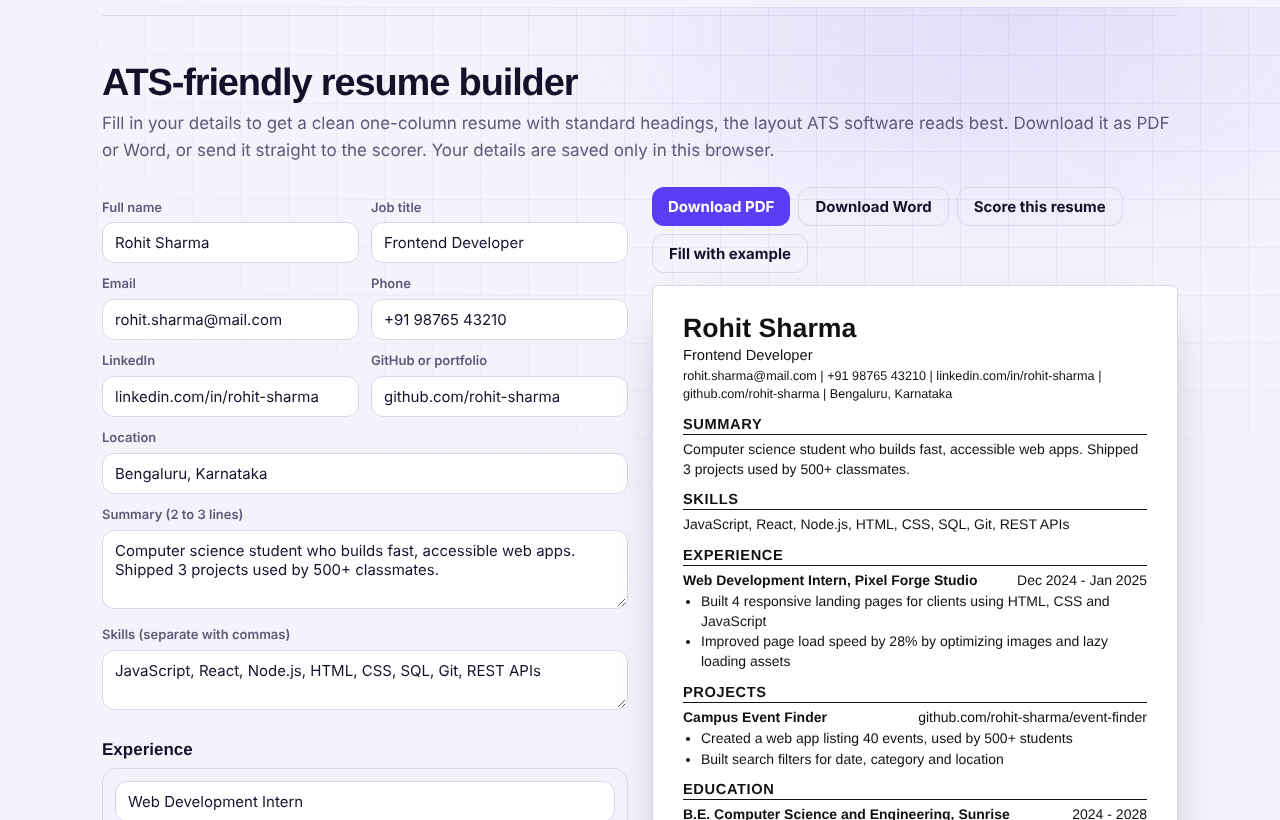
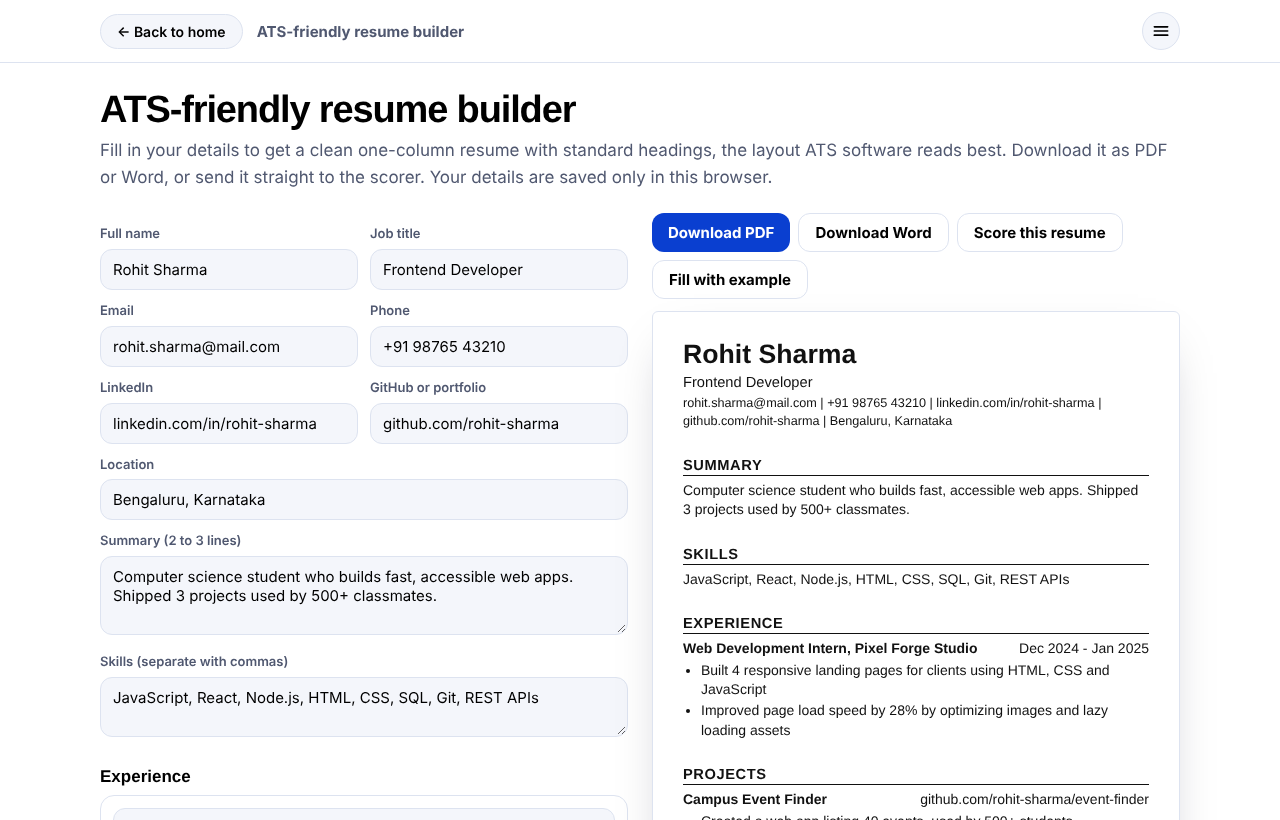
New README screenshots in the blue and black theme; tidy drag hint
Claude-Session: https://claude.ai/code/session_01MjmZpBCitWr5jAoKJwMvQ4

Changed region(s): [[0.0625, 0.0, 0.9688, 1.0], [0.0625, 0.7622, 0.4375, 1.0]]

diff --git a/index.html b/index.html
@@ -51,7 +51,7 @@ h1{font:800 clamp(38px,6.2vw,68px)/1.02 "Plus Jakarta Sans",sans-serif;letter-sp
 /* resume sheet */
 .stage{position:relative;display:grid;place-items:center;padding:44px 0 58px;touch-action:pan-y;user-select:none;-webkit-user-select:none;cursor:grab}
 .stage.grab{cursor:grabbing}
-.dhint{position:absolute;left:0;right:0;bottom:14px;text-align:center;font:600 12px "Inter",sans-serif;letter-spacing:.08em;text-transform:uppercase;color:var(--muted);transition:opacity .5s;pointer-events:none}
+.dhint{position:absolute;left:6%;right:auto;bottom:14px;text-align:left;font:600 12px "Inter",sans-serif;letter-spacing:.08em;text-transform:uppercase;color:var(--muted);transition:opacity .5s;pointer-events:none}
 .dhint.gone{opacity:0}
 .float{perspective:1100px;width:100%;display:grid;place-items:center;animation:bob 7s ease-in-out infinite}
 @keyframes bob{0%,100%{transform:translateY(0)}50%{transform:translateY(-12px)}}
